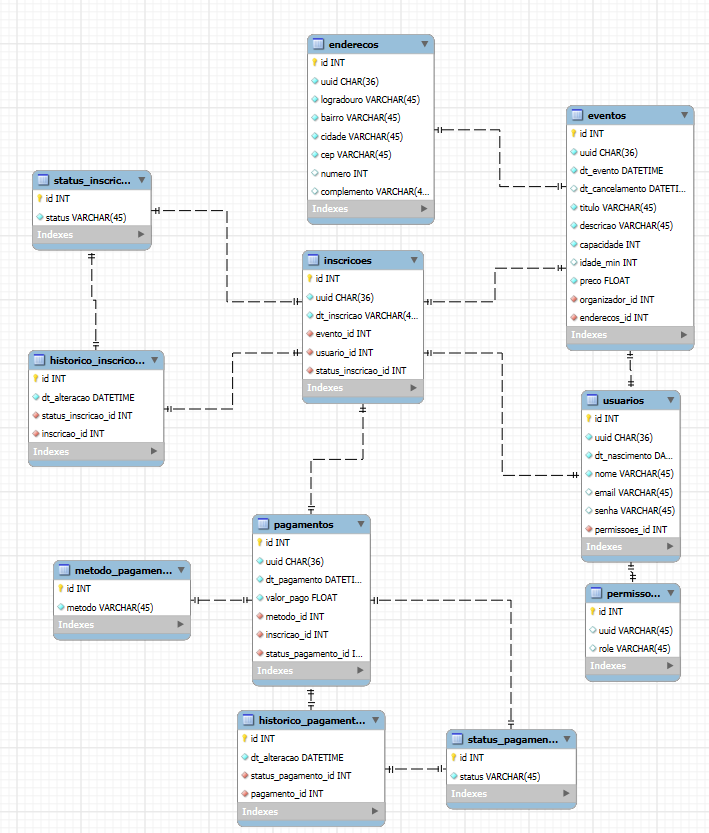
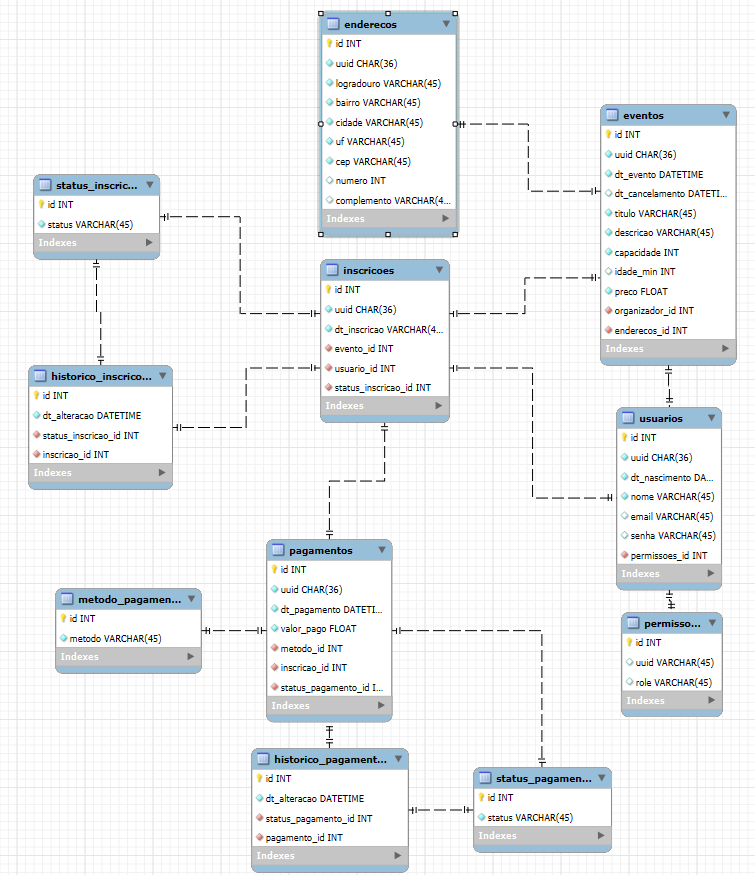
Corrigindo bug no UUID

diff --git a/database/migrations/2025_05_17_183939_create_enderecos_table.php b/database/migrations/2025_05_17_183939_create_enderecos_table.php
@@ -14,10 +14,11 @@ return new class extends Migration
     {
         Schema::create('enderecos', function (Blueprint $table) {
             $table->id();
-            $table->uuid('uuid')->default(str::uuid())->unique();
+            $table->uuid('uuid')->unique();
             $table->string('logradouro');
             $table->string('bairro');
             $table->string('cidade');
+            $table->string('uf');
             $table->string('cep');
             $table->integer('numero')->nullable();
             $table->string('complemento')->nullable();

diff --git a/database/migrations/2025_05_17_221041_create_inscricoes_table.php b/database/migrations/2025_05_17_221041_create_inscricoes_table.php
@@ -14,7 +14,7 @@ return new class extends Migration
     {
         Schema::create('inscricoes', function (Blueprint $table) {
             $table->id();
-            $table->uuid('uuid')->default(str::uuid())->unique();
+            $table->uuid('uuid')->unique();
             $table->integer('evento_id')->unsigned();
             $table->integer('usuario_id')->unsigned();
             $table->integer('status_inscricao_id')->unsigned();

diff --git a/database/migrations/2025_05_17_221606_create_pagamentos_table.php b/database/migrations/2025_05_17_221606_create_pagamentos_table.php
@@ -14,7 +14,7 @@ return new class extends Migration
     {
         Schema::create('pagamentos', function (Blueprint $table) {
             $table->id();
-            $table->uuid('uuid')->default(str::uuid())->unique();
+            $table->uuid('uuid')->unique();
             $table->float('valor_pago');
             $table->integer('metodo_id')->unsigned();
             $table->integer('inscricao_id')->unsigned();

diff --git a/database/migrations/2025_05_17_213244_create_eventos_table.php b/database/migrations/2025_05_17_213244_create_eventos_table.php
@@ -14,7 +14,7 @@ return new class extends Migration
     {
         Schema::create('eventos', function (Blueprint $table) {
             $table->id();
-            $table->uuid('uuid')->default(str::uuid())->unique();
+            $table->uuid('uuid')->unique();
             $table->datetime('dt_evento');
             $table->datetime('dt_cancelamento')->nullable();
             $table->string('titulo');

diff --git a/database/migrations/0001_01_01_000001_create_users_table.php b/database/migrations/0001_01_01_000001_create_users_table.php
@@ -14,7 +14,7 @@ return new class extends Migration
     {
         Schema::create('usuarios', function (Blueprint $table) {
             $table->id();
-            $table->uuid('uuid')->default(str::uuid())->unique();
+            $table->uuid('uuid')->unique();
             $table->date('dt_nascimento');
             $table->string('name');
             $table->string('email')->unique();

diff --git a/database/migrations/0001_01_01_000000_create_permissoes_table.php b/database/migrations/0001_01_01_000000_create_permissoes_table.php
@@ -16,7 +16,7 @@ return new class extends Migration
     {
         Schema::create('permissoes', function (Blueprint $table) {
             $table->id();
-            $table->uuid('uuid')->default(str::uuid())->unique();
+            $table->uuid('uuid')->unique();
             $table->enum('role', array_column(
                 PermissaoEnum::cases(), 'name')
             );
